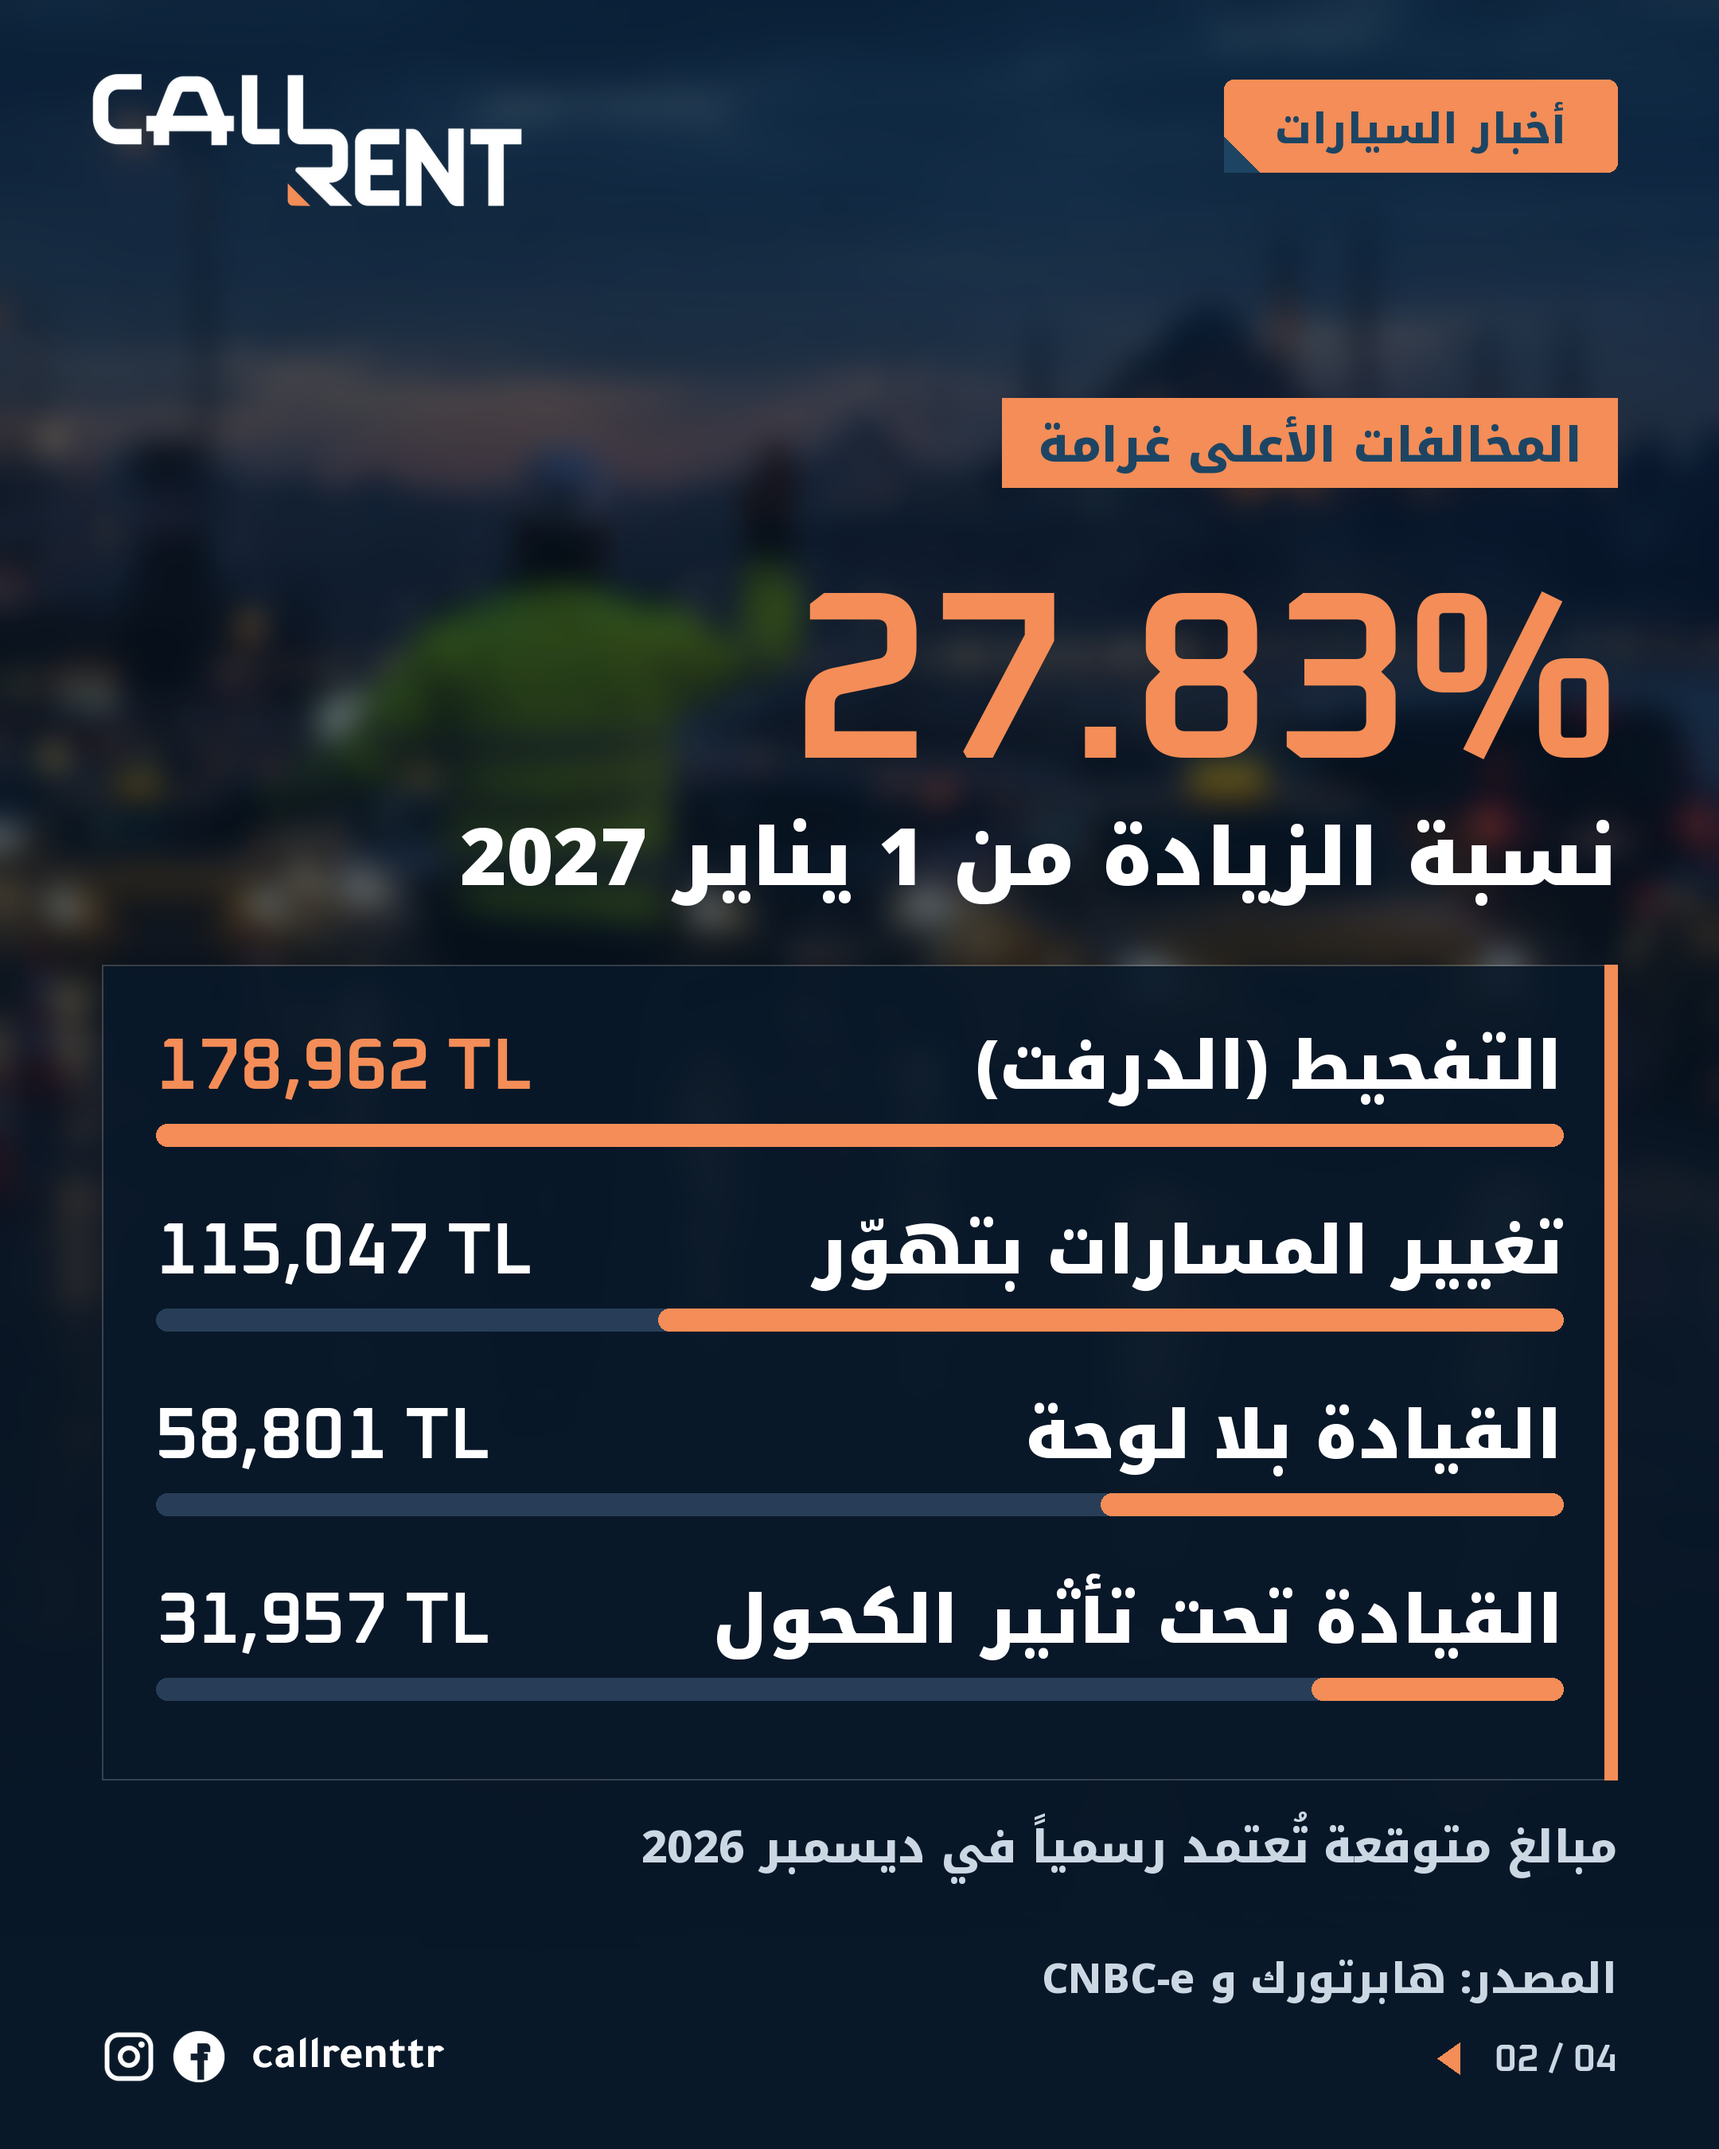
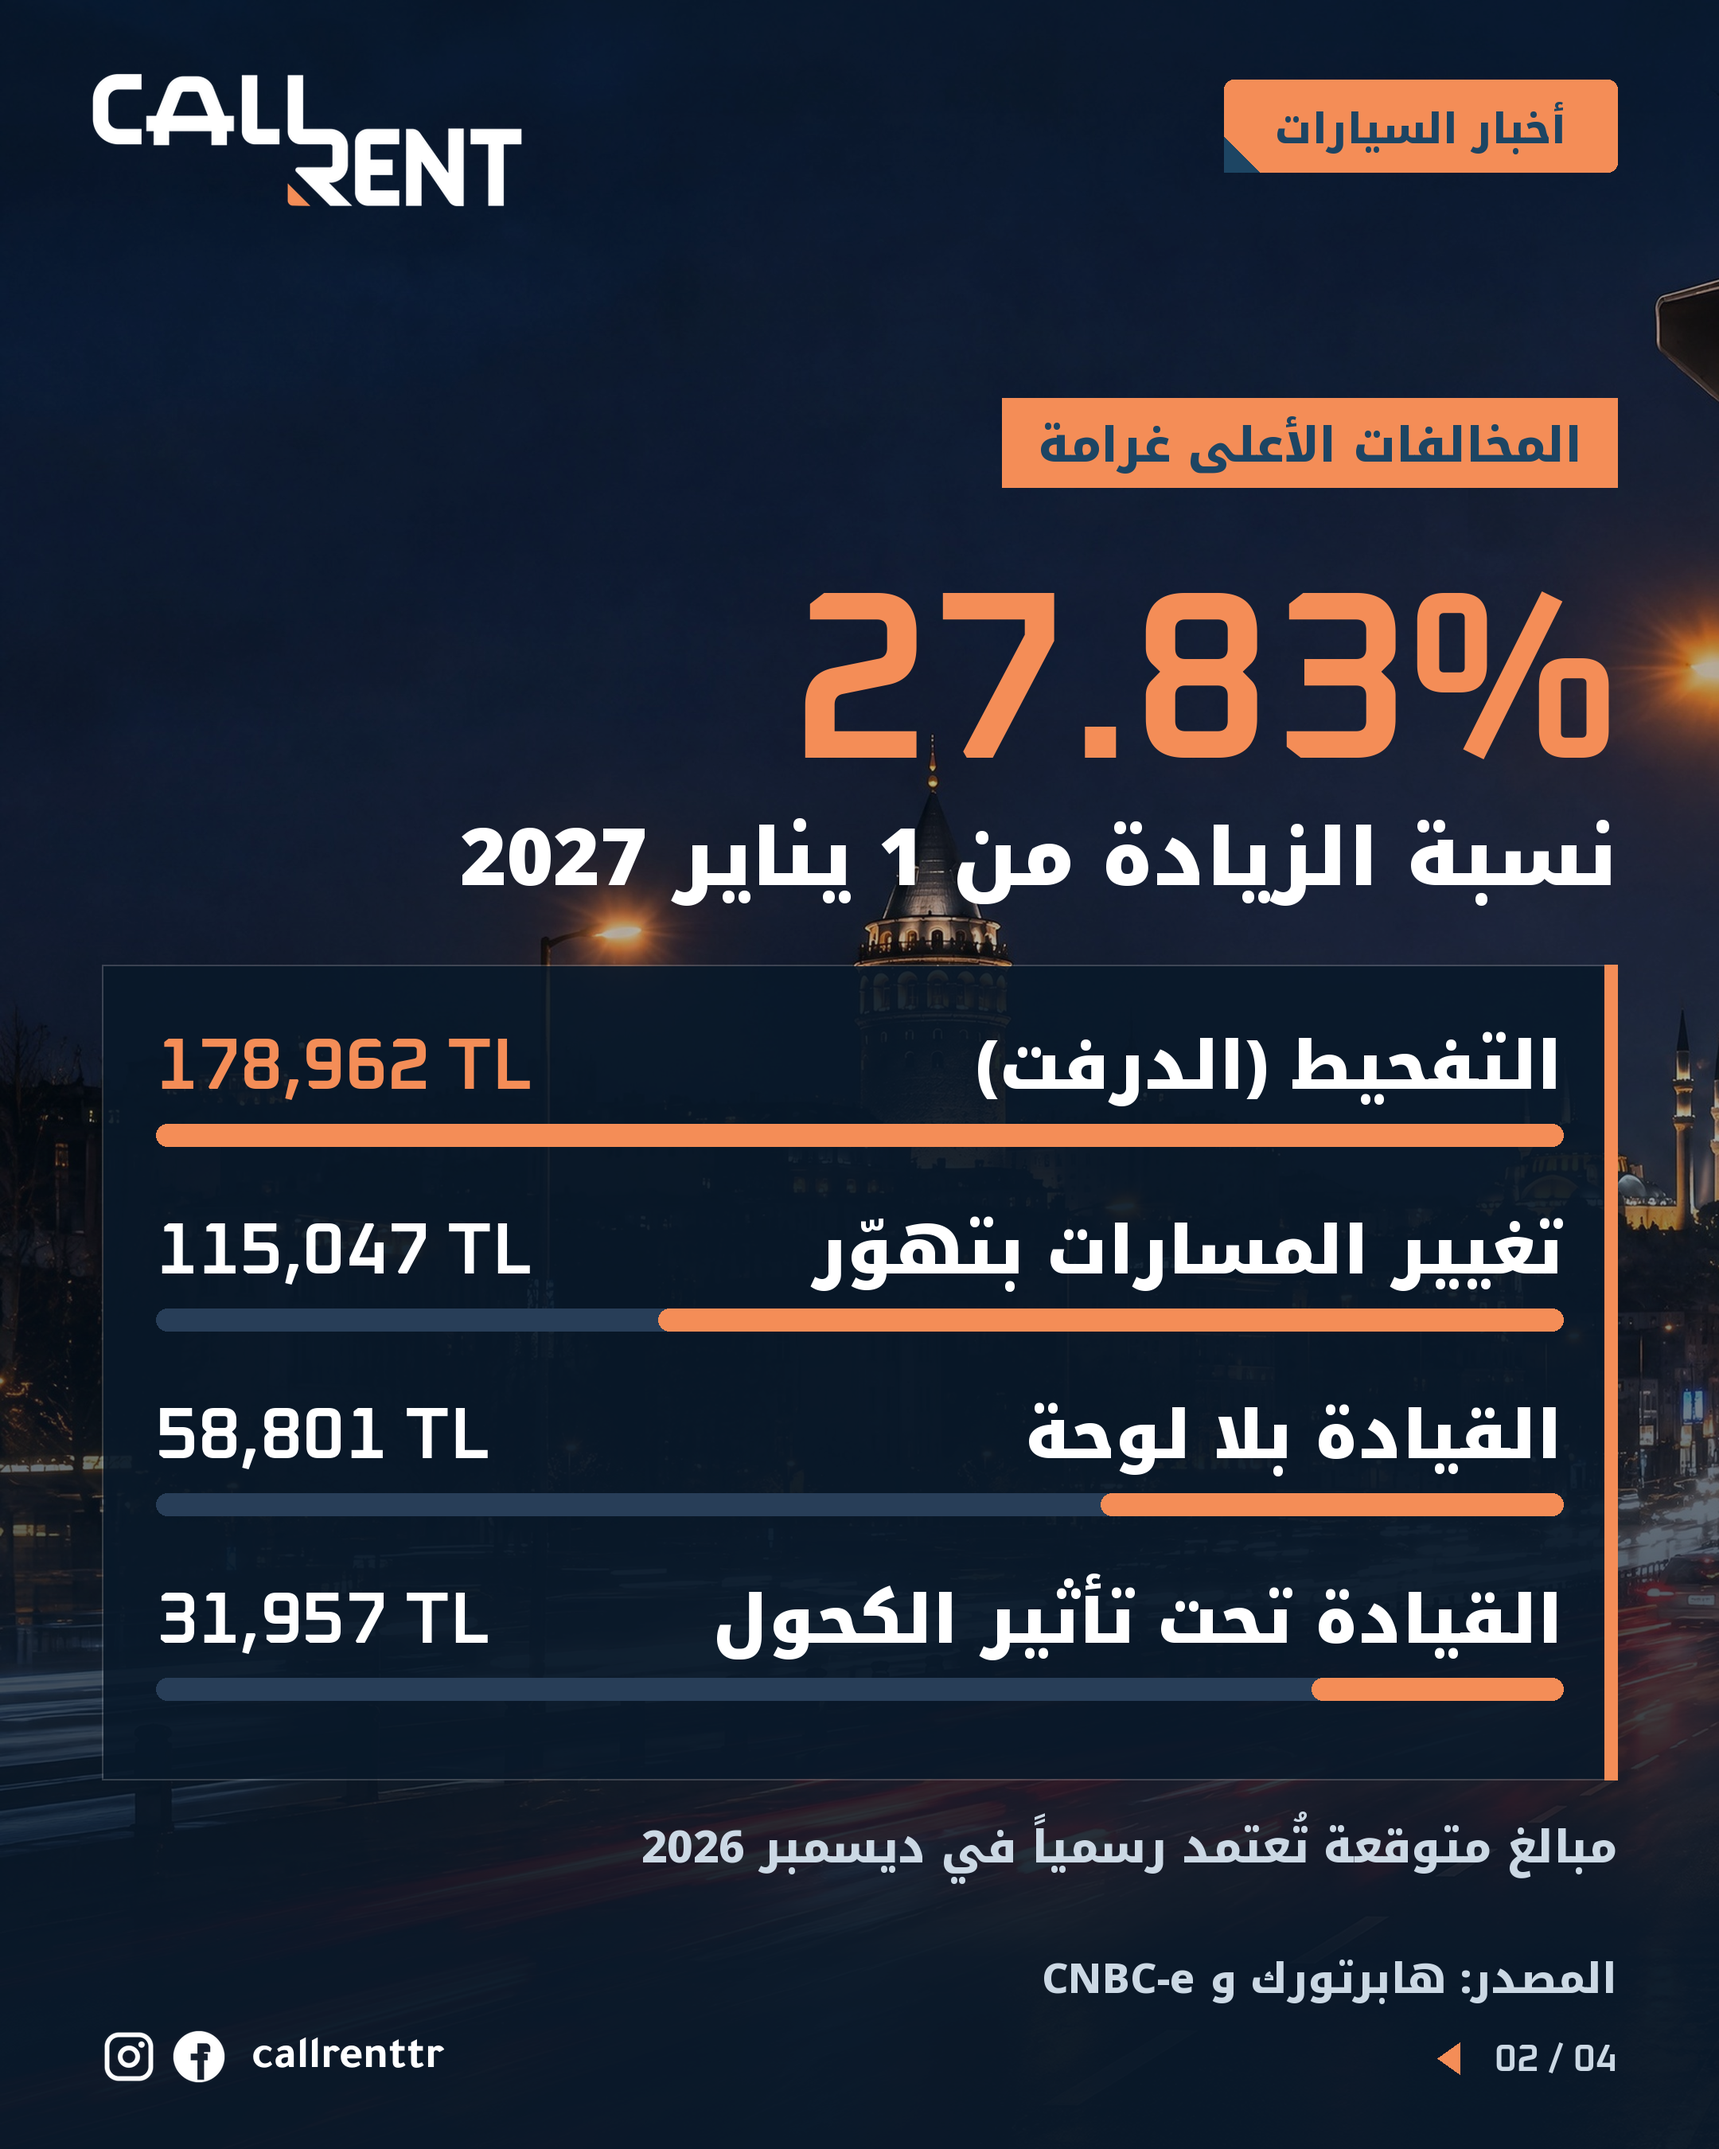
Traffic fines news: Higgsfield backgrounds for slides 2-4 (user-approved), lighter stats backdrop
Claude-Session: https://claude.ai/code/session_01JWxxZZBXcuDznNNTjM86b7

diff --git a/marketing/news/stories/turkey_fines_2027.py b/marketing/news/stories/turkey_fines_2027.py
@@ -1,4 +1,4 @@
-"""Turkey traffic fines 2027 (projected, 27.83% revaluation), dark theme. Images: Canva AI."""
+"""Turkey traffic fines 2027 (projected, 27.83% revaluation), dark theme. Images: Canva AI (cover), Higgsfield GPT Image (slides 2-4, at the user's request)."""
 # O, Wh, LOGONAVY are provided by news_carousel when the story is loaded.
 
 NAME = "turkey-fines-2027"
@@ -10,19 +10,19 @@ SLIDES = [
         ('مخالفات السير في تركيا', LOGONAVY, Wh, 60),
         ('غرامات جديدة لعام 2027', Wh, LOGONAVY, 76),
         ('بزيادة 27.83%', O, LOGONAVY, 72)]),
-    dict(kind='stats', bg='fines-1-cover.jpg', chip='المخالفات الأعلى غرامة',
+    dict(kind='stats', bg='fines-2-bg.jpg', blur=0, dim=0.28, grade_from=640, chip='المخالفات الأعلى غرامة',
          total='27.83%', total_label='نسبة الزيادة من 1 يناير 2027', note=NOTE, rh=116, rows=[
             ('التفحيط (الدرفت)', '178,962 TL', 178962),
             ('تغيير المسارات بتهوّر', '115,047 TL', 115047),
             ('القيادة بلا لوحة', '58,801 TL', 58801),
             ('القيادة تحت تأثير الكحول', '31,957 TL', 31957)]),
-    dict(kind='stats', bg='fines-1-cover.jpg', chip='مخالفات يومية شائعة',
+    dict(kind='stats', bg='fines-3-bg.jpg', blur=0, dim=0.28, grade_from=640, chip='مخالفات يومية شائعة',
          total='38,349 TL', total_label='أعلى غرامة لتجاوز السرعة', note=NOTE, rh=116, rows=[
             ('تجاوز الإشارة الحمراء', '6,391 TL', 6391),
             ('استخدام الهاتف أثناء القيادة', '6,391 TL', 6391),
             ('عدم ربط حزام الأمان', '3,195 TL', 3195),
             ('عدم ارتداء خوذة الدراجة', '3,195 TL', 3195)]),
-    dict(kind='ask', bg='fines-1-cover.jpg', chip='شاركنا رأيك', top=380, lines=[
+    dict(kind='ask', bg='fines-4-ask.jpg', chip='شاركنا رأيك', top=380, lines=[
         ('برأيك.. هل تكفي الغرامات', Wh, 64),
         ('المرتفعة لتقليل المخالفات', Wh, 64),
         ('في الطرق؟', O, 92)]),

diff --git a/marketing/news/news_carousel.py b/marketing/news/news_carousel.py
@@ -314,8 +314,8 @@ def poll(sl, page, total):
 
 def stats(sl, page, total):
     """One big total, then a ranked bar per market."""
-    cv = bg(sl['bg']).filter(ImageFilter.GaussianBlur(9*K))      # backdrop only: keep the figures clean
-    cv = Image.blend(cv, Image.new('RGBA', (W*K, H*K), DEEP+(255,)), 0.5); grade(cv, 260, 0.96); d = Draw(cv)
+    cv = bg(sl['bg']).filter(ImageFilter.GaussianBlur(sl.get('blur', 9)*K))   # backdrop only: keep the figures clean
+    cv = Image.blend(cv, Image.new('RGBA', (W*K, H*K), DEEP+(255,)), sl.get('dim', 0.5)); grade(cv, sl.get('grade_from', 260), 0.96); d = Draw(cv)
     chrome(cv, d, page, total)
     fe = F(AR_BOLD, 30); ew = w_ar(sl['chip'], fe) + 44; eh = 56; ey = 250
     d.rectangle((R_-ew, ey, R_, ey+eh), fill=O+(255,))
